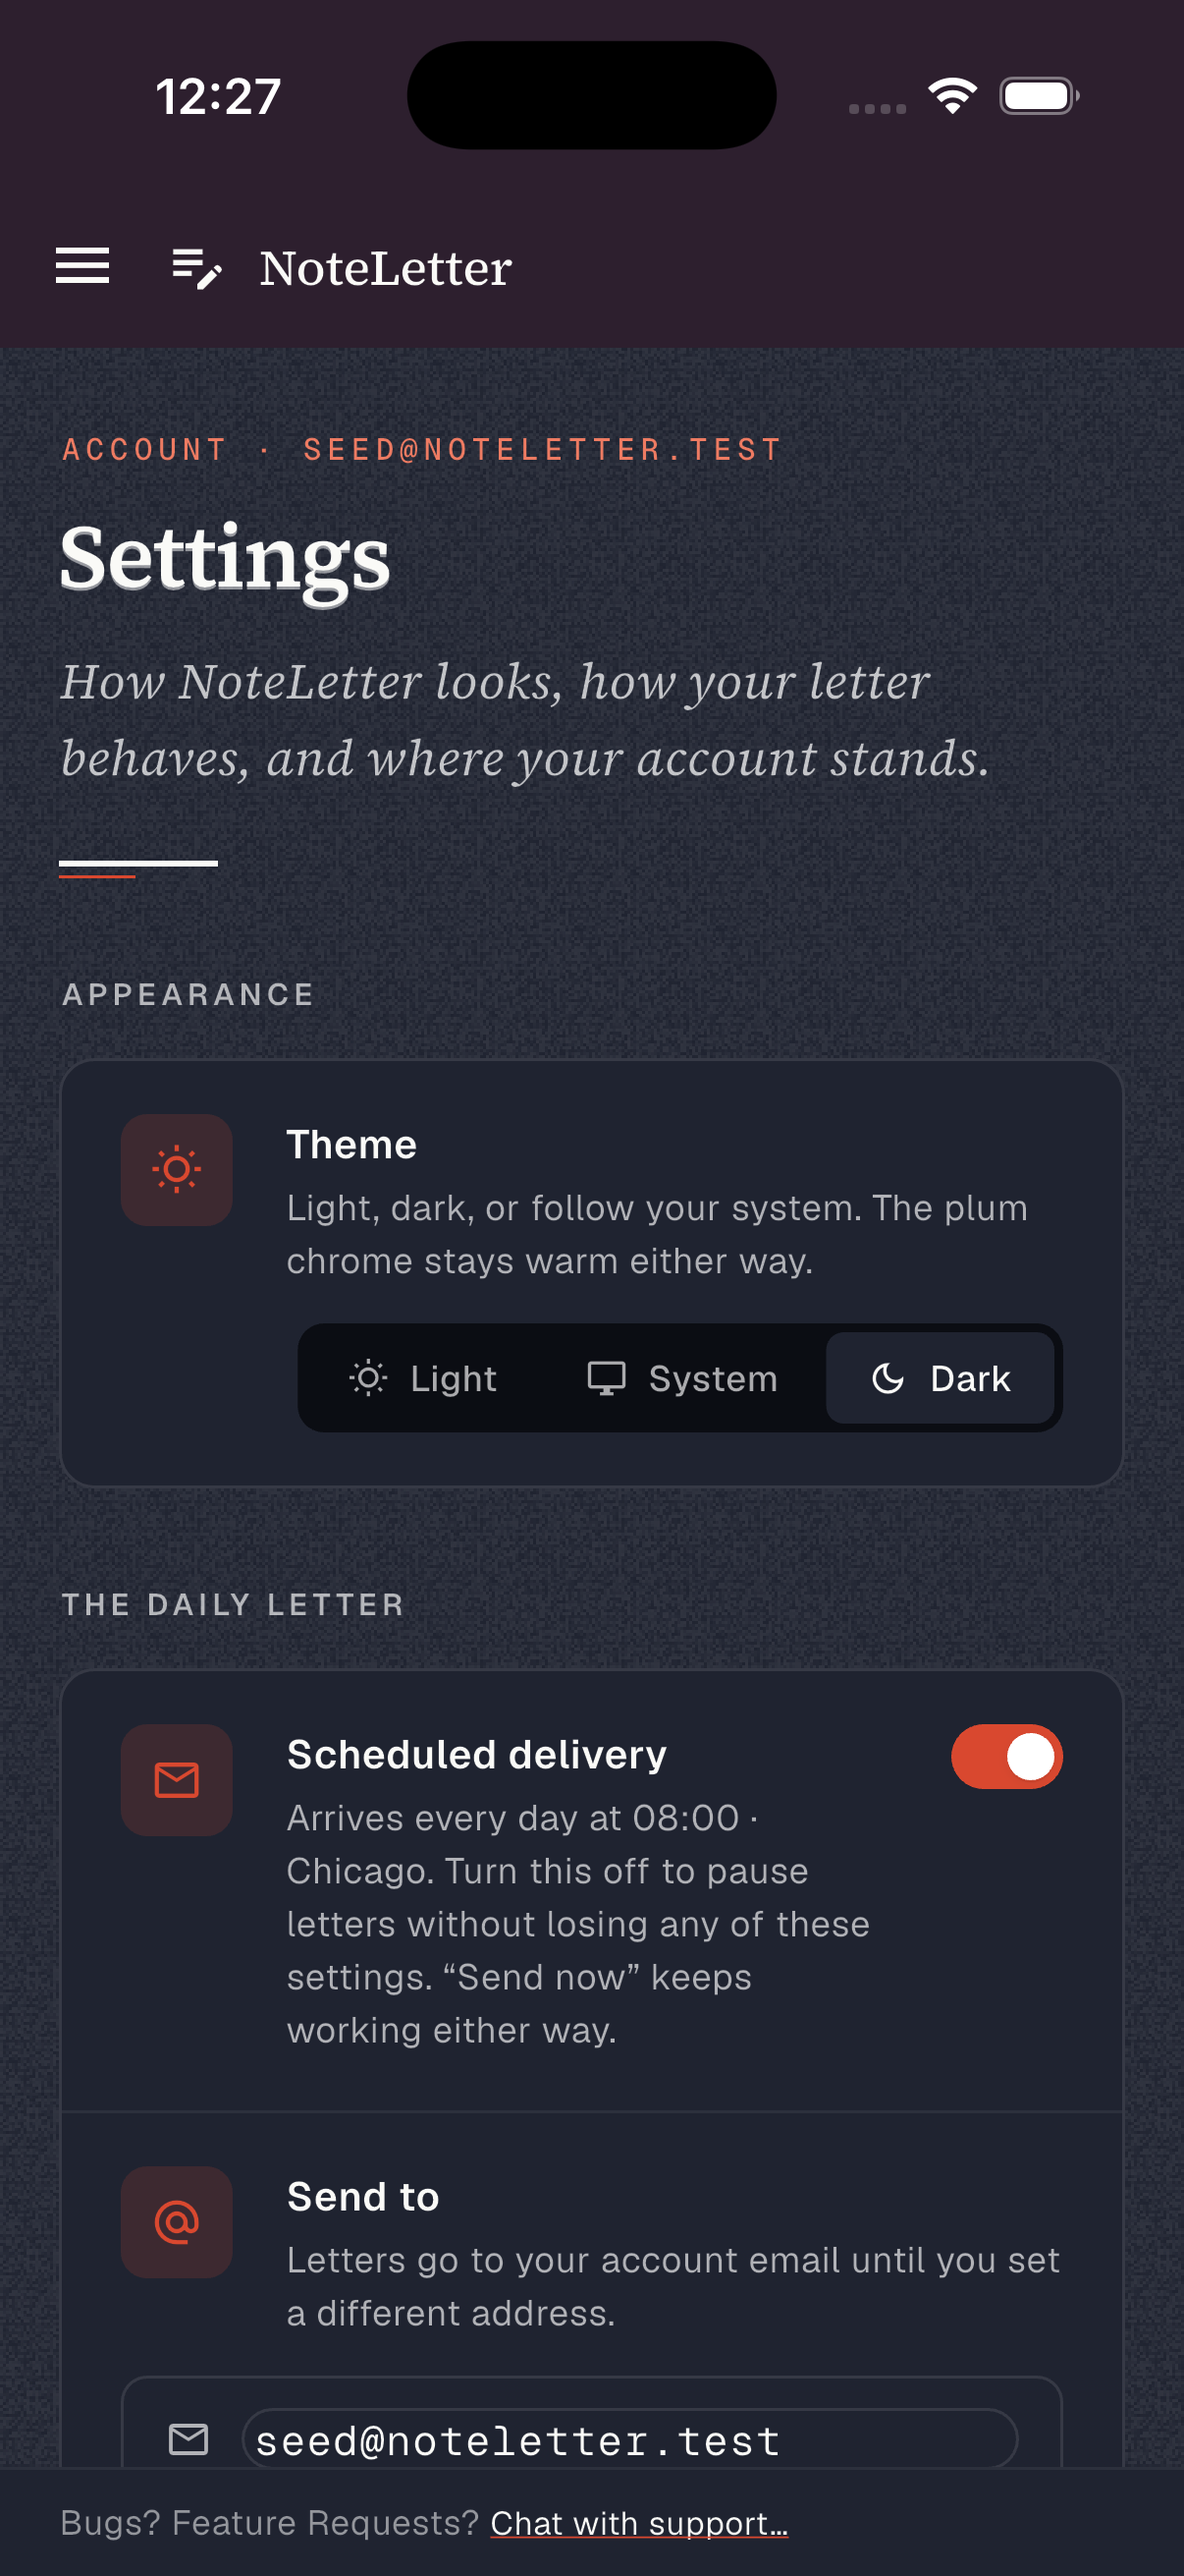
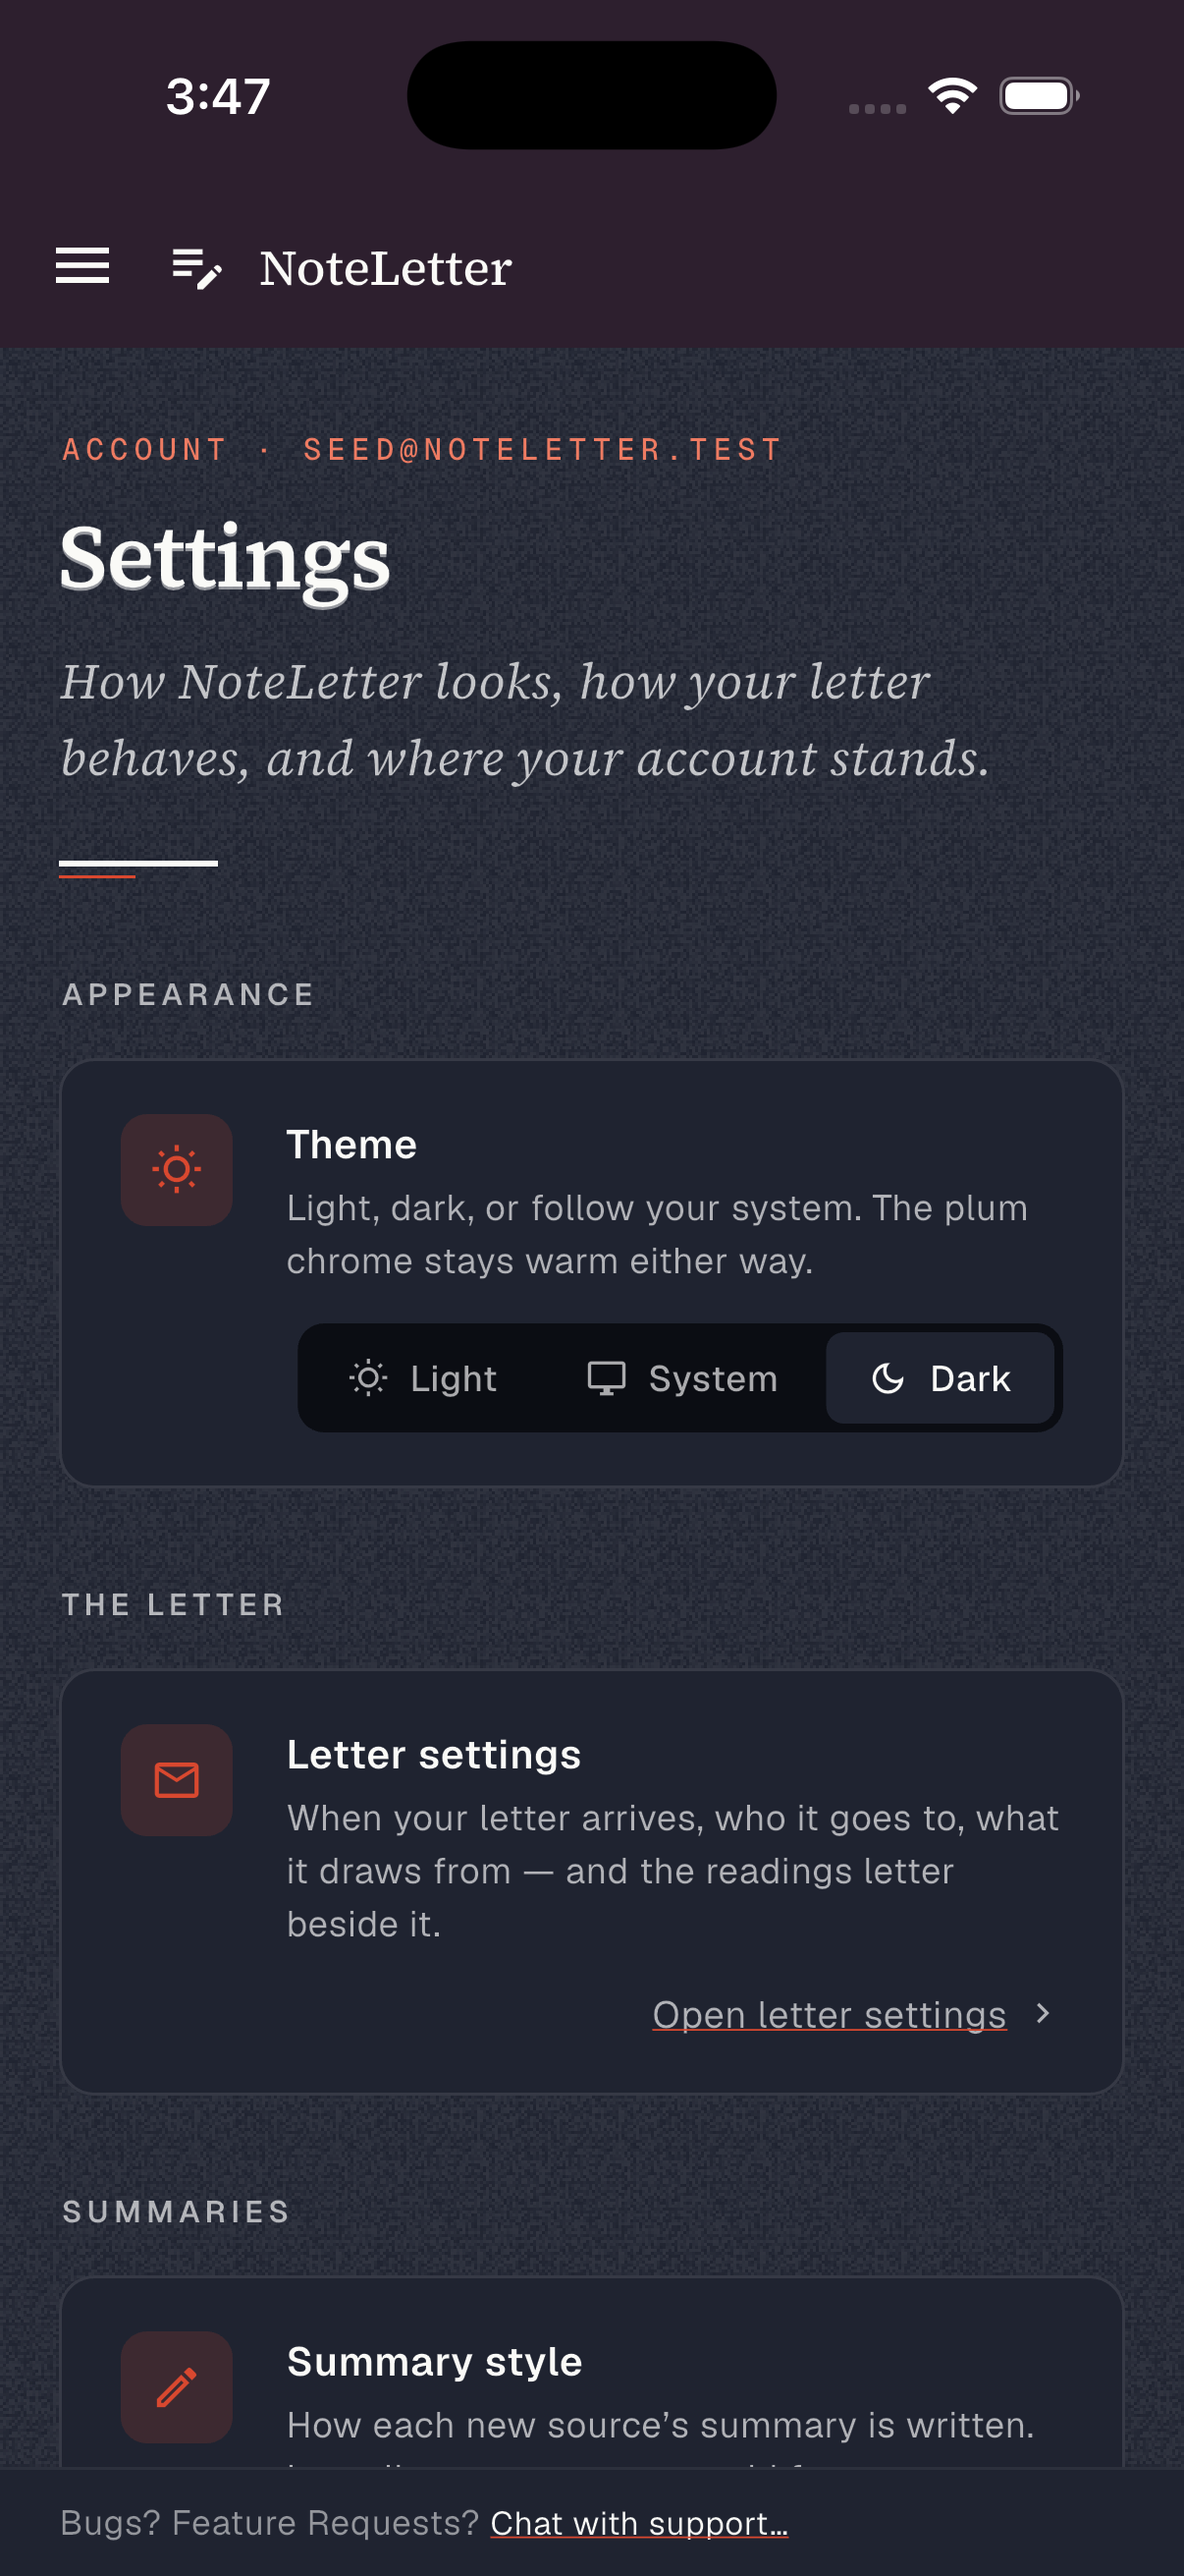
Settings: re-shoot the pair its letter row moved out of (F-05 follow-up)
The commit before this moved the letter form to `/letters/settings` and left
one row behind in its place — which makes the committed Settings pair older
than the screen it photographs, and `screenshot_pair_check` said so
(STALE-PAIR, F-04). That gate is the whole point: a frame of a screen that no
longer exists is the ritual not having run.

The row also takes `wideControl` now, so its link drops under the copy on a
phone instead of taking half the width from it — the way the Theme row's
segmented track already does.

Gates: analyze clean · contract+kit 467 passed · screenshot_pair PASS
       · pair settings light+dark refreshed
Pin stays 4.4.0.

Claude-Session: https://claude.ai/code/session_013zsF7R8rJTNnBHPKRQMRxw

diff --git a/lib/pages/settings_page.dart b/lib/pages/settings_page.dart
@@ -96,6 +96,9 @@ class _SettingsPageState extends State<SettingsPage> {
                 description:
                     'When your letter arrives, who it goes to, what it draws '
                     'from — and the readings letter beside it.',
+                // The link drops under the copy on a phone rather than taking
+                // half the row's width from it.
+                wideControl: true,
                 trailing: [
                   KitSettingLink('Open letter settings',
                       onTap: () => context.go('/letters/settings')),
